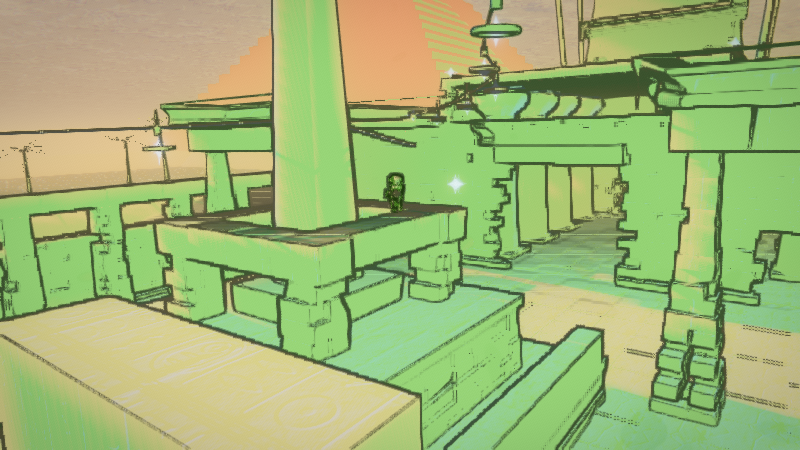
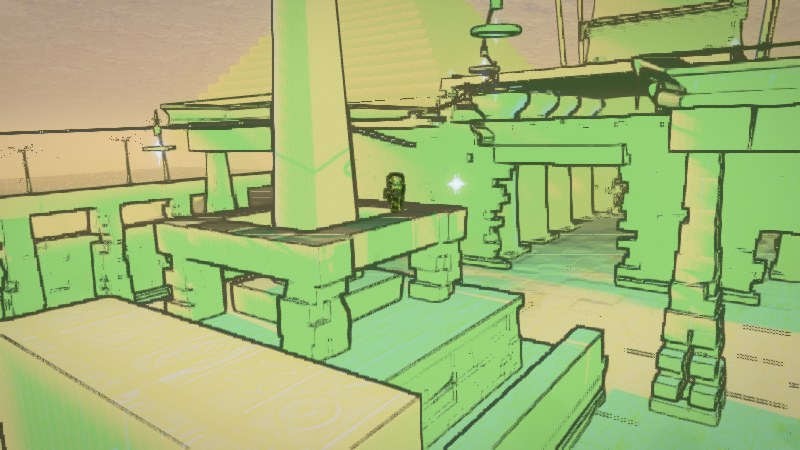
Force cascade adoption at boot instead of waiting for the periodic sweep
LIGHTING adopts materials into the cascaded-shadow setup once every 20 frames.
A canonical screenshot poses the camera and steps about 17, so a capture could
render before any material had been patched - silently falling back to the
cascade-naive shadow path and quietly invalidating the frame it was taken to
judge. Adopt everything explicitly once the world is built.

Claude-Session: https://claude.ai/code/session_01PXtatFVa9WWnKz5zHerfeC

diff --git a/src/main.js b/src/main.js
@@ -155,6 +155,24 @@ async function boot() {
       cast++; recv++;
     });
     console.log(`[boot] shadow sweep: ${cast} meshes cast+receive, ${skipped} opted out`);
+
+    /**
+     * Adopt every material into the cascaded-shadow setup now, rather than waiting for
+     * LIGHTING's periodic sweep. That sweep runs once every 20 frames, and a canonical
+     * screenshot poses the camera and steps ~17 — so a capture could render before any
+     * material had been patched, silently falling back to the cascade-naive shadow path.
+     */
+    const lighting = engine.get('lighting');
+    if (lighting?.enableCascades) {
+      let adopted = 0;
+      engine.scene.traverse((o) => {
+        const m = o.material;
+        if (!m) return;
+        if (Array.isArray(m)) { for (const mm of m) { lighting.enableCascades(mm); adopted++; } }
+        else { lighting.enableCascades(m); adopted++; }
+      });
+      console.log(`[boot] cascade adoption: ${adopted} materials`);
+    }
   }
 
   /* ---- frame loop ---- */
